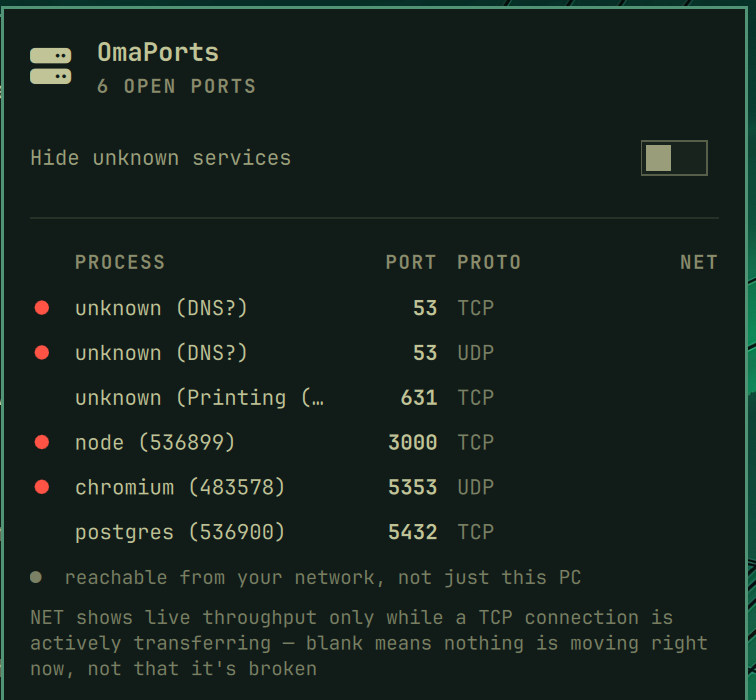
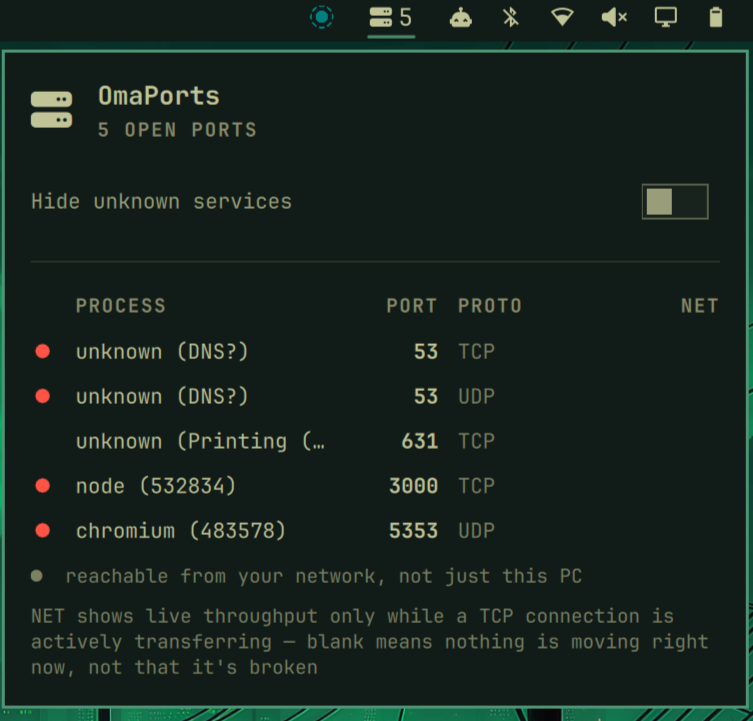
Use user-provided preview screenshot; embed it in README

Changed region(s): [[0.0, 0.0, 1.0, 1.0], [0.8247, 0.18, 0.9469, 0.33], [0.8858, 0.36, 0.9469, 0.45]]

diff --git a/README.md b/README.md
@@ -3,6 +3,8 @@
 A bar-widget plugin for the [Omarchy](https://omarchy.org) shell that shows
 how many local ports are currently in use, and which process owns each one.
 
+<img src="preview.png" alt="OmaPorts popup showing open ports, owning process, protocol, and live network throughput" width="360">
+
 ## Requirements
 
 - `ss` (from `iproute2`, installed by default on Arch/Omarchy).
